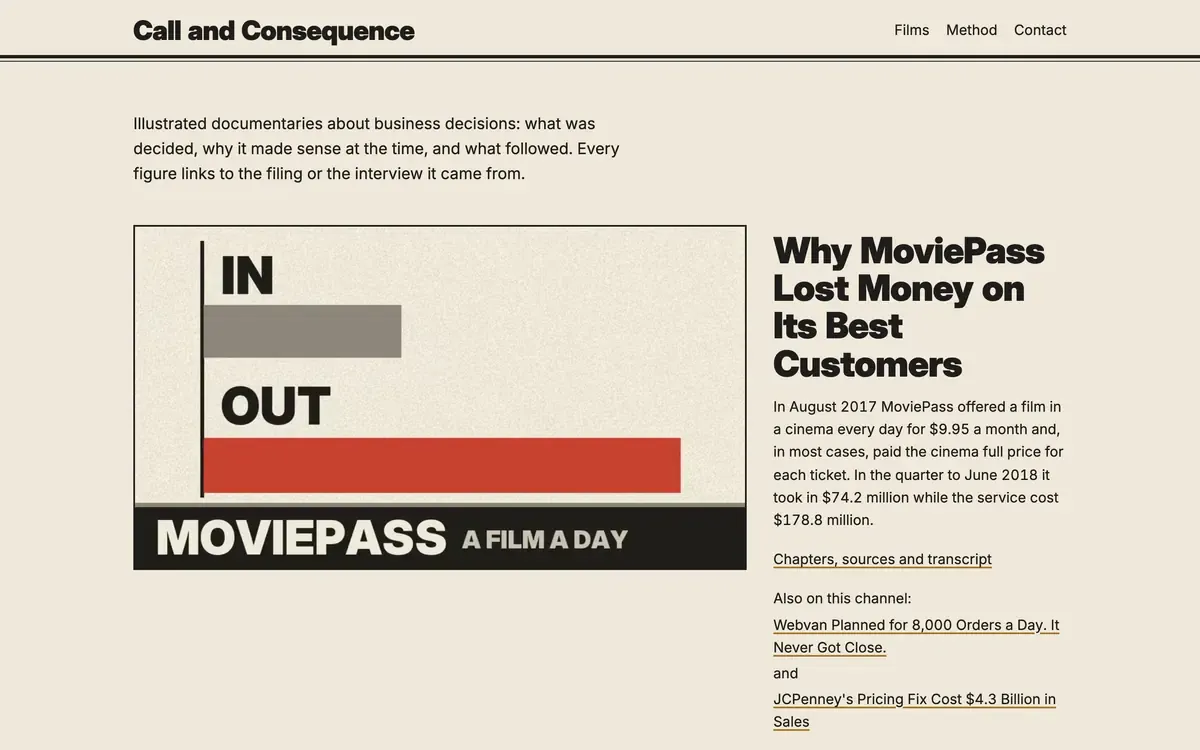
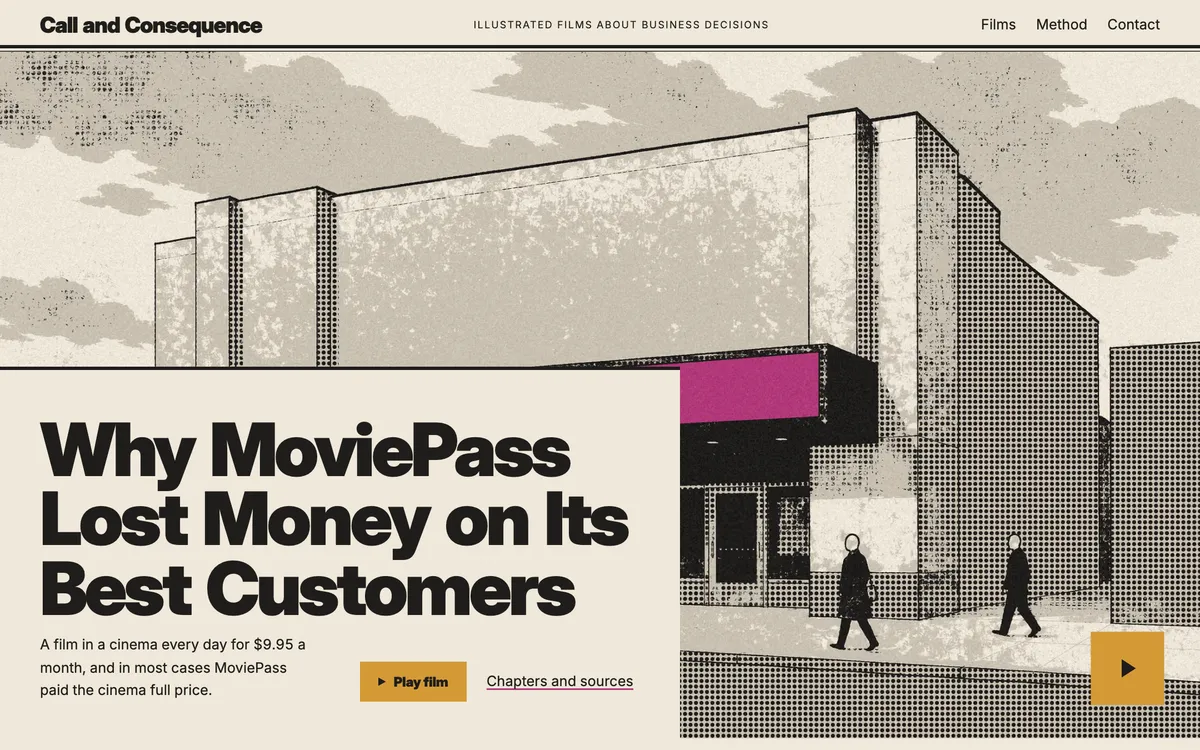
Open the work fan on hover and give phones a tools swipe deck
The home fan drops the phone shots for big numbers and a framed detail
from each site's hero. The sheet you point at, or tab to, opens wide
with its image, one line and a link; at rest the last sheet is open.

On phones the tools tiles give way to a swipe deck of the branded cards,
with a group rail and a counter. The phone hero no longer draws both line
sets or leaves a gap, and the sticky bar no longer wraps.

Call and Consequence's screenshots show its new illustrated hero, with
the episode label painted out.

diff --git a/public/styles.css b/public/styles.css
@@ -83,7 +83,7 @@ h1,h2,h3{font-family:var(--display);font-weight:600;letter-spacing:-.015em;line-
 /* Each line sways out of phase with its neighbour, so a slow wave travels across the bundle */
 .hero-lines path{animation:sway 7s ease-in-out infinite alternate;animation-delay:calc(var(--i) * -.32s)}
 @keyframes sway{from{transform:translateX(-9px)}to{transform:translateX(9px)}}
-.lines-mob{display:none}
+.hero-lines .lines-mob{display:none}
 @keyframes drift{from{transform:translate3d(-10px,6px,0)}to{transform:translate3d(14px,-10px,0)}}
 .giant{grid-column:1/-1;grid-row:3;width:100%;margin:0 0 -0.6vw;position:relative;z-index:1}
 
@@ -191,18 +191,23 @@ html:not(.drawn) .giant .wm-slash{fill:transparent;stroke:var(--orange);stroke-w
 @keyframes wm-ink{to{fill:#0B0B0C;stroke-width:0}}
 @keyframes wm-slash{to{fill:#E8663A;stroke-width:0}}
 
-/* Home: sheet fan (hover lifts a sheet and its phone) */
+/* Home: sheet fan. The sheet you point at (or tab to) opens wide; at rest the last one is open. CSS only. */
 .fan-section{padding:0 var(--gut) clamp(96px,10vw,140px)}
-.fan{position:relative;height:520px}
-.fan-sheet{position:absolute;top:44px;left:calc((100% - 340px) / 5 * var(--i));width:340px;height:470px;border-radius:24px;background:var(--bg);color:var(--fg);text-decoration:none;padding:24px;display:flex;flex-direction:column;gap:6px;overflow:hidden;box-shadow:-10px 0 28px rgba(20,20,22,.16);transition:transform .5s var(--ease),box-shadow .5s var(--ease)}
-.fan-sheet .num{font:italic 400 20px var(--accent);color:var(--sub)}
-.fan-sheet .name{font:600 28px/1.07 var(--display);letter-spacing:-.01em}
-.fan-sheet .line{font-size:15px;line-height:1.4;max-width:150px;color:var(--fg);opacity:0;transition:opacity .3s}
-.fan-sheet img{position:absolute;left:150px;top:150px;width:170px;border-radius:26px;border:6px solid var(--pill);opacity:0;transform:translateY(80px) rotate(var(--tilt));box-shadow:12px 16px 30px rgba(0,0,0,.3);transition:transform .6s var(--ease),opacity .3s}
-.fan-sheet:last-child img{opacity:1;transform:translateY(0) rotate(var(--tilt))}
-.fan-sheet:hover,.fan-sheet:focus-visible{transform:translateY(-44px);z-index:7;box-shadow:-10px 18px 40px rgba(20,20,22,.22)}
-.fan-sheet:hover .line,.fan-sheet:focus-visible .line{opacity:1}
-.fan-sheet:hover img,.fan-sheet:focus-visible img{opacity:1;transform:translateY(-30px) rotate(var(--tilt))}
+.fan{display:flex;height:600px;margin-top:8px}
+.fan-sheet{--open:0;position:relative;flex:1 1 0;min-width:0;margin-left:-26px;border-radius:26px;background:var(--bg);color:var(--fg);text-decoration:none;padding:28px;overflow:hidden;box-shadow:-18px 0 40px rgba(20,20,22,.12);transition:flex-grow .6s var(--ease)}
+.fan-sheet:first-child{margin-left:0}
+.fan:not(:has(.fan-sheet:hover,.fan-sheet:focus-visible)) .fan-sheet:last-child,.fan-sheet:hover,.fan-sheet:focus-visible{flex-grow:4.2;--open:1}
+.fan-sheet .num{display:block;font:italic 400 92px/.92 var(--accent);white-space:nowrap;transition:font-size .5s var(--ease)}
+.fan-sheet .name{display:block;margin-top:12px;max-width:118px;font:600 21px/1.05 var(--display);letter-spacing:-.01em;transition:font-size .5s var(--ease)}
+.fan-sheet .line,.fan-sheet .cta{position:absolute;left:28px;width:210px;opacity:0;transform:translateY(12px);transition:opacity .3s,transform .5s var(--ease)}
+.fan-sheet .line{bottom:96px;font-size:18px;line-height:1.5}
+.fan-sheet .cta{bottom:28px;width:auto;display:inline-flex;align-items:center;gap:10px;padding:6px 6px 6px 18px;border-radius:99px;background:var(--pill);color:#F3F3F1;font:500 15px var(--body)}
+.fan-sheet img{position:absolute;bottom:16px;left:16px;width:calc(100% - 42px);height:250px;object-fit:cover;border-radius:14px;transition:left .6s var(--ease),width .6s var(--ease),height .6s var(--ease),bottom .6s var(--ease)}
+/* the open sheet */
+.fan:not(:has(.fan-sheet:hover,.fan-sheet:focus-visible)) .fan-sheet:last-child :is(.line,.cta),.fan-sheet:is(:hover,:focus-visible) :is(.line,.cta){opacity:1;transform:none;transition-delay:.15s}
+.fan:not(:has(.fan-sheet:hover,.fan-sheet:focus-visible)) .fan-sheet:last-child .num,.fan-sheet:is(:hover,:focus-visible) .num{font-size:112px}
+.fan:not(:has(.fan-sheet:hover,.fan-sheet:focus-visible)) .fan-sheet:last-child .name,.fan-sheet:is(:hover,:focus-visible) .name{font-size:44px;max-width:none}
+.fan:not(:has(.fan-sheet:hover,.fan-sheet:focus-visible)) .fan-sheet:last-child img,.fan-sheet:is(:hover,:focus-visible) img{left:calc(100% - 356px);width:300px;height:376px;bottom:28px}
 
 /* Home: a reflection, one per working day */
 .note-card[hidden],.tool-card[hidden]{display:none}
@@ -234,6 +239,7 @@ html:not(.drawn) .giant .wm-slash{fill:transparent;stroke:var(--orange);stroke-w
 .tile:hover{transform:translateY(-2px)}
 .tile[aria-pressed="true"]{background:var(--tb);color:var(--tf)}
 .tool-cards{position:sticky;top:120px;display:grid}
+.stack-rail,.stack-count{display:none}
 .tool-card,.tile[aria-pressed="true"]{box-shadow:inset 0 0 0 1px color-mix(in srgb,var(--tf) 14%,transparent)}
 /* Each card wears its tool's brand colour (--tb) with text picked for contrast (--tf) in build.mjs */
 .tool-card{grid-area:1/1;position:relative;overflow:hidden;background:var(--tb);color:var(--tf);border-radius:28px;padding:40px 40px 150px;display:flex;flex-direction:column;gap:22px;--soft:color-mix(in srgb,var(--tf) 85%,transparent)}
@@ -396,12 +402,13 @@ a.chip:hover{text-decoration:underline}
   .menu-btn{display:flex}
   .site-header{padding:12px 12px 12px 20px}
   .wordmark img{width:117px}
-  .hero{grid-template-columns:1fr;grid-template-rows:auto auto 1fr auto;min-height:calc(100svh - 68px);padding:20px 20px 0}
+  .hero{grid-template-columns:1fr;grid-template-rows:auto auto auto auto;min-height:0;padding:20px 20px 0}
   .tag{display:none}
   .hero h1{grid-row:2;margin-top:20px;font-size:46px}
-  .hero-lines{left:0;right:0;top:auto;bottom:16%;height:42%}
-  .lines-desk{display:none}.lines-mob{display:block}
-  .giant{grid-row:4;margin-bottom:96px}
+  .hero-lines{position:relative;grid-row:3;inset:auto;margin:4px -20px 0;height:auto;overflow:hidden;-webkit-mask-image:linear-gradient(#000 60%,transparent);mask-image:linear-gradient(#000 60%,transparent)}
+  .hero-lines .lines-desk{display:none}
+  .hero-lines .lines-mob{display:block;width:100%;height:auto;aspect-ratio:375/340}
+  .giant{grid-row:4;height:auto;margin:-72px 0 96px;position:relative;z-index:2}
   .statement{padding:72px 20px}
   .section-head{flex-direction:column;align-items:flex-start;gap:12px;margin-bottom:28px}
   .band{padding:0 8px 8px}
@@ -409,12 +416,13 @@ a.chip:hover{text-decoration:underline}
   .band h2{font-size:60px}.band p{font-size:17px;margin-top:14px}
   .band-actions{align-items:stretch}
   .band-cta{justify-content:space-between;height:58px;padding:0 7px 0 22px;font-size:16px}
-  .fan{display:flex;height:auto;overflow-x:auto;scroll-snap-type:x mandatory;padding:14px 0 8px;margin:0 calc(var(--gut) * -1);padding-left:var(--gut);scrollbar-width:none}
-  .fan-sheet{position:relative;top:0;left:0;flex:0 0 230px;height:320px;margin-right:-80px;padding:18px;scroll-snap-align:start;border-radius:20px}
+  .fan{height:auto;overflow-x:auto;scroll-snap-type:x mandatory;scroll-padding-left:var(--gut);padding:14px 0 8px;margin:0 calc(var(--gut) * -1);padding-left:var(--gut);scrollbar-width:none}
+  .fan-sheet,.fan-sheet:first-child{flex:0 0 230px!important;height:340px;margin:0 -60px 0 0;padding:18px;scroll-snap-align:start;border-radius:20px;box-shadow:-8px 0 18px rgba(20,20,22,.1)}
   .fan-sheet:last-child{margin-right:var(--gut)}
-  .fan-sheet .name{font-size:22px}
-  .fan-sheet img,.fan-sheet:last-child img{left:70px;top:110px;width:130px;opacity:1;transform:rotate(var(--tilt))}
-  .fan-sheet:hover,.fan-sheet:focus-visible{transform:none}
+  .fan-sheet .num,.fan-sheet:is(*) .num{font-size:64px!important}
+  .fan-sheet .name,.fan-sheet:is(*) .name{font-size:20px!important;max-width:150px!important}
+  .fan-sheet .line,.fan-sheet .cta{display:none}
+  .fan-sheet img,.fan-sheet:is(*) img{left:14px!important;bottom:14px!important;width:142px!important;height:178px!important}
   .daily{grid-template-columns:1fr;gap:18px}
   .daily h2{font-size:38px}
   .daily-intro{padding-top:0}
@@ -425,12 +433,17 @@ a.chip:hover{text-decoration:underline}
   .note-src{font-size:15px}
   .note-take{grid-template-columns:1fr;gap:6px;padding-top:18px}
   .note-take p:last-child{font-size:16px}
-  .stack{grid-template-columns:1fr;gap:0}
-  .stack-group{grid-template-columns:1fr;gap:10px;padding:16px 0}
-  .stack-label{padding-top:0}
-  .tile{font-size:16px;padding:0 14px}
-  .tool-cards{position:static;margin:4px 0 12px}
-  .tool-card{padding:24px 22px 110px;border-radius:20px;gap:16px}
+  /* Phones: the tiles give way to a swipe deck of every card, a group rail and a counter */
+  .stack{grid-template-columns:1fr;gap:16px}
+  .stack-groups{display:none}
+  .stack-rail{display:flex;gap:8px;overflow-x:auto;margin:0 calc(var(--gut) * -1);padding:0 var(--gut);scrollbar-width:none}
+  .rail-btn{flex-shrink:0;min-height:40px;padding:0 14px;border:0;border-radius:99px;background:var(--white);font:500 15px var(--body);color:var(--ink);cursor:pointer}
+  .rail-btn[aria-current="true"]{background:var(--pill);color:var(--ground)}
+  .tool-cards{position:static;display:flex;gap:12px;overflow-x:auto;scroll-snap-type:x mandatory;margin:0 calc(var(--gut) * -1);padding:0 var(--gut);scroll-padding:0 var(--gut);scrollbar-width:none}
+  .tool-card,.tool-card[hidden]{display:flex;flex:0 0 min(300px,82vw);grid-area:auto;scroll-snap-align:start;padding:24px 22px 110px;border-radius:20px;gap:16px}
+  .stack-count{display:flex;align-items:center;gap:6px;font-weight:500;font-size:14px;color:var(--text-2)}
+  .stack-count .bar{margin-left:auto;width:110px;height:4px;border-radius:2px;background:var(--rule);overflow:hidden}
+  .stack-count .bar i{display:block;height:100%;width:calc(var(--p,0) * 100%);background:var(--ink);transition:width .3s var(--ease)}
   .tool-giant{font-size:110px}
   .tool-card h3{font-size:30px}
   .tool-why{font-size:16px}
@@ -483,7 +496,7 @@ a.chip:hover{text-decoration:underline}
   .send-row{flex-direction:column-reverse;align-items:stretch}
   .send{justify-content:space-between}
   .footer{padding:40px 24px 28px;margin:0 8px 88px}
-  .sticky-talk{display:flex;justify-content:space-between;position:fixed;left:12px;right:12px;bottom:14px;z-index:30;height:58px;padding:0 7px 0 22px;font-size:16px;box-shadow:0 10px 30px rgba(20,20,22,.25);transition:transform .35s var(--ease),opacity .35s}
+  .sticky-talk{display:flex;justify-content:space-between;position:fixed;left:12px;right:12px;bottom:14px;z-index:30;height:58px;padding:0 7px 0 22px;font-size:clamp(14px,4.2vw,16px);white-space:nowrap;box-shadow:0 10px 30px rgba(20,20,22,.25);transition:transform .35s var(--ease),opacity .35s}
   .sticky-talk .dot{width:44px;height:44px}
   .sticky-talk.hide{transform:translateY(120%);opacity:0;pointer-events:none}
 }

diff --git a/pages/index.html b/pages/index.html
@@ -21,12 +21,12 @@
     <a class="arrow-link" href="/work/">Open all six</a>
   </div>
   <div class="fan">
-    <a class="fan-sheet" href="/work/#farmcompanion" style="--i:0;--bg:#F2D9A4;--fg:#1E1A12;--sub:#6B5426;--tilt:-7deg"><span class="num">01</span><span class="name">Farm<br>Companion</span><span class="line">A map of UK farm shops and what's in season.</span><img src="/work/farmcompanion-phone.webp" alt="" loading="lazy" width="230" height="468"></a>
-    <a class="fan-sheet" href="/work/#sagheerah" style="--i:1;--bg:#0E3B33;--fg:#F4EDE4;--sub:#A9C9BF;--tilt:7deg"><span class="num">02</span><span class="name">Sagheerah</span><span class="line">A shop for one jilbab, with its own checkout.</span><img src="/work/sagheerah-phone.webp" alt="" loading="lazy" width="230" height="498"></a>
-    <a class="fan-sheet" href="/work/#flintmere" style="--i:2;--bg:#F2C230;--fg:#141416;--sub:#5A4708;--tilt:-7deg"><span class="num">03</span><span class="name">Flintmere</span><span class="line">Checks a Shopify food shop's barcodes.</span><img src="/work/flintmere-phone.webp" alt="" loading="lazy" width="230" height="498"></a>
-    <a class="fan-sheet" href="/work/#deeper" style="--i:3;--bg:#D52B1E;--fg:#FFFFFF;--sub:#FFD9D4;--tilt:7deg"><span class="num">04</span><span class="name">deeper.tools</span><span class="line">A free add-on for AI coding tools.</span><img src="/work/deeper-phone.webp" alt="" loading="lazy" width="230" height="498"></a>
-    <a class="fan-sheet" href="/work/#pageperfect" style="--i:4;--bg:#141416;--fg:#F3F3F1;--sub:#9A9AA0;--tilt:-7deg"><span class="num">05</span><span class="name">PagePerfect</span><span class="line">Essays on type and page layout.</span><img src="/work/pageperfect-phone.webp" alt="" loading="lazy" width="230" height="498"></a>
-    <a class="fan-sheet" href="/work/#callandconsequence" style="--i:5;--bg:#E9DFCB;--fg:#1C1A16;--sub:#6A5E48;--tilt:7deg"><span class="num">06</span><span class="name">Call and Consequence</span><span class="line">Films about business decisions.</span><img src="/work/callandconsequence-phone.webp" alt="" loading="lazy" width="230" height="498"></a>
+    <a class="fan-sheet" href="/work/#farmcompanion" style="--i:0;--bg:#F2D9A4;--fg:#1E1A12;--sub:#6B5426;--tilt:-7deg"><span class="num">01</span><span class="name">Farm Companion</span><span class="line">A map of UK farm shops and what's in season.</span><span class="cta">Read the project<span class="dot" aria-hidden="true"><svg viewBox="0 0 10 20" width="8" height="16"><path d="M8.5 1.5L1.5 18.5"/></svg></span></span><img src="/work/farmcompanion-detail.webp" alt="" loading="lazy" width="640" height="800"></a>
+    <a class="fan-sheet" href="/work/#sagheerah" style="--i:1;--bg:#0E3B33;--fg:#F4EDE4;--sub:#A9C9BF;--tilt:7deg"><span class="num">02</span><span class="name">Sagheerah</span><span class="line">A shop for one jilbab, with its own checkout.</span><span class="cta">Read the project<span class="dot" aria-hidden="true"><svg viewBox="0 0 10 20" width="8" height="16"><path d="M8.5 1.5L1.5 18.5"/></svg></span></span><img src="/work/sagheerah-detail.webp" alt="" loading="lazy" width="640" height="800"></a>
+    <a class="fan-sheet" href="/work/#flintmere" style="--i:2;--bg:#F2C230;--fg:#141416;--sub:#5A4708;--tilt:-7deg"><span class="num">03</span><span class="name">Flintmere</span><span class="line">Checks a Shopify food shop's barcodes.</span><span class="cta">Read the project<span class="dot" aria-hidden="true"><svg viewBox="0 0 10 20" width="8" height="16"><path d="M8.5 1.5L1.5 18.5"/></svg></span></span><img src="/work/flintmere-detail.webp" alt="" loading="lazy" width="640" height="800"></a>
+    <a class="fan-sheet" href="/work/#deeper" style="--i:3;--bg:#D52B1E;--fg:#FFFFFF;--sub:#FFD9D4;--tilt:7deg"><span class="num">04</span><span class="name">deeper.tools</span><span class="line">A free add-on for AI coding tools.</span><span class="cta">Read the project<span class="dot" aria-hidden="true"><svg viewBox="0 0 10 20" width="8" height="16"><path d="M8.5 1.5L1.5 18.5"/></svg></span></span><img src="/work/deeper-detail.webp" alt="" loading="lazy" width="640" height="800"></a>
+    <a class="fan-sheet" href="/work/#pageperfect" style="--i:4;--bg:#141416;--fg:#F3F3F1;--sub:#9A9AA0;--tilt:-7deg"><span class="num">05</span><span class="name">PagePerfect</span><span class="line">Essays on type and page layout.</span><span class="cta">Read the project<span class="dot" aria-hidden="true"><svg viewBox="0 0 10 20" width="8" height="16"><path d="M8.5 1.5L1.5 18.5"/></svg></span></span><img src="/work/pageperfect-detail.webp" alt="" loading="lazy" width="640" height="800"></a>
+    <a class="fan-sheet" href="/work/#callandconsequence" style="--i:5;--bg:#E9DFCB;--fg:#1C1A16;--sub:#6A5E48;--tilt:7deg"><span class="num">06</span><span class="name">Call and Consequence</span><span class="line">Films about business decisions.</span><span class="cta">Read the project<span class="dot" aria-hidden="true"><svg viewBox="0 0 10 20" width="8" height="16"><path d="M8.5 1.5L1.5 18.5"/></svg></span></span><img src="/work/callandconsequence-detail.webp" alt="" loading="lazy" width="640" height="800"></a>
   </div>
 </section>
 
@@ -91,7 +91,7 @@
 <section class="tools" aria-labelledby="tools-title">
   <div class="section-head">
     <h2 id="tools-title">Tools we <em>stand</em> by</h2>
-    <p>Twenty-six tools across our own sites, from the first sketch to the server. Pick one to see why it's there and where we used it.</p>
+    <p>Twenty-six tools across our own sites, from the first sketch to the server, with why each one is there and where we used it.</p>
   </div>
   <!--#tools-->
 </section>

diff --git a/public/main.js b/public/main.js
@@ -131,24 +131,22 @@ if (notes.length) {
   notes.forEach((n, i) => { n.hidden = i !== workdays % notes.length; });
 }
 
-// Home: tools. A tile opens its card; on phones the card moves under the tile's group.
+// Home: tools. Desktop: a tile opens its card. Phones: every card sits in a swipe deck (CSS shows them all),
+// with a rail that jumps to a group and a counter that follows the swipe.
 const stack = $(".stack");
 if (stack) {
-  const cards = $(".tool-cards", stack), phone = matchMedia("(max-width:820px)");
+  const cards = $(".tool-cards", stack);
   let layer = 1, settle;
   const show = (tile, animate = false) => {
     const next = $("#" + tile.getAttribute("aria-controls"));
     const prev = $(".tool-card:not([hidden])", cards);
     $$(".tile", stack).forEach((t) => t.setAttribute("aria-pressed", String(t === tile)));
-    if (phone.matches) tile.closest(".stack-group").after(cards); else stack.append(cards);
     if (next === prev) return;
     next.hidden = false;
     if (!animate || still || !prev) { if (prev) prev.hidden = true; return; }
-    // The colour spreads from the side nearest the tile: the left edge on desktop, the top on phones
+    // The colour spreads from the left edge, the side nearest the tiles, level with the tile picked
     const t = tile.getBoundingClientRect(), c = cards.getBoundingClientRect();
-    next.style.setProperty("--from", phone.matches
-      ? `${Math.round(((t.left + t.width / 2 - c.left) / c.width) * 100)}% 0%`
-      : `0% ${Math.round(Math.min(Math.max((t.top + t.height / 2 - c.top) / c.height, 0), 1) * 100)}%`);
+    next.style.setProperty("--from", `0% ${Math.round(Math.min(Math.max((t.top + t.height / 2 - c.top) / c.height, 0), 1) * 100)}%`);
     next.style.zIndex = ++layer; // the newest card always sits on top, however fast the clicks
     next.classList.remove("opening"); void next.offsetWidth; next.classList.add("opening");
     clearTimeout(settle);
@@ -158,8 +156,22 @@ if (stack) {
     setTimeout(() => next.classList.remove("opening"), 900);
   };
   stack.addEventListener("click", (e) => { const t = e.target.closest(".tile"); if (t) show(t, true); });
-  phone.addEventListener("change", () => show($(".tile[aria-pressed=true]", stack)));
-  if (phone.matches) show($(".tile[aria-pressed=true]", stack));
+
+  const deck = $$(".tool-card", cards), rail = $$(".rail-btn", stack), railEl = $(".stack-rail", stack);
+  const count = $(".stack-count", stack), n = $(".n", count);
+  const at = () => Math.min(deck.length - 1, Math.round(cards.scrollLeft / (deck[0].offsetWidth + 12)));
+  const mark = () => {
+    const k = at();
+    n.textContent = k + 1;
+    count.style.setProperty("--p", (k + 1) / deck.length);
+    const g = rail.filter((b) => +b.dataset.first <= k).pop();
+    rail.forEach((b) => b.setAttribute("aria-current", String(b === g)));
+    railEl.scrollTo({ left: g.offsetLeft - rail[0].offsetLeft, behavior: still ? "instant" : "smooth" });
+  };
+  cards.addEventListener("scroll", () => { clearTimeout(cards.t); cards.t = setTimeout(mark, 80); }, { passive: true });
+  rail.forEach((b) => b.addEventListener("click", () =>
+    cards.scrollTo({ left: deck[+b.dataset.first].offsetLeft - deck[0].offsetLeft, behavior: still ? "instant" : "smooth" })));
+  mark();
 }
 
 // Contact form: works without JS (the Worker redirects back); with JS it stays on the page
